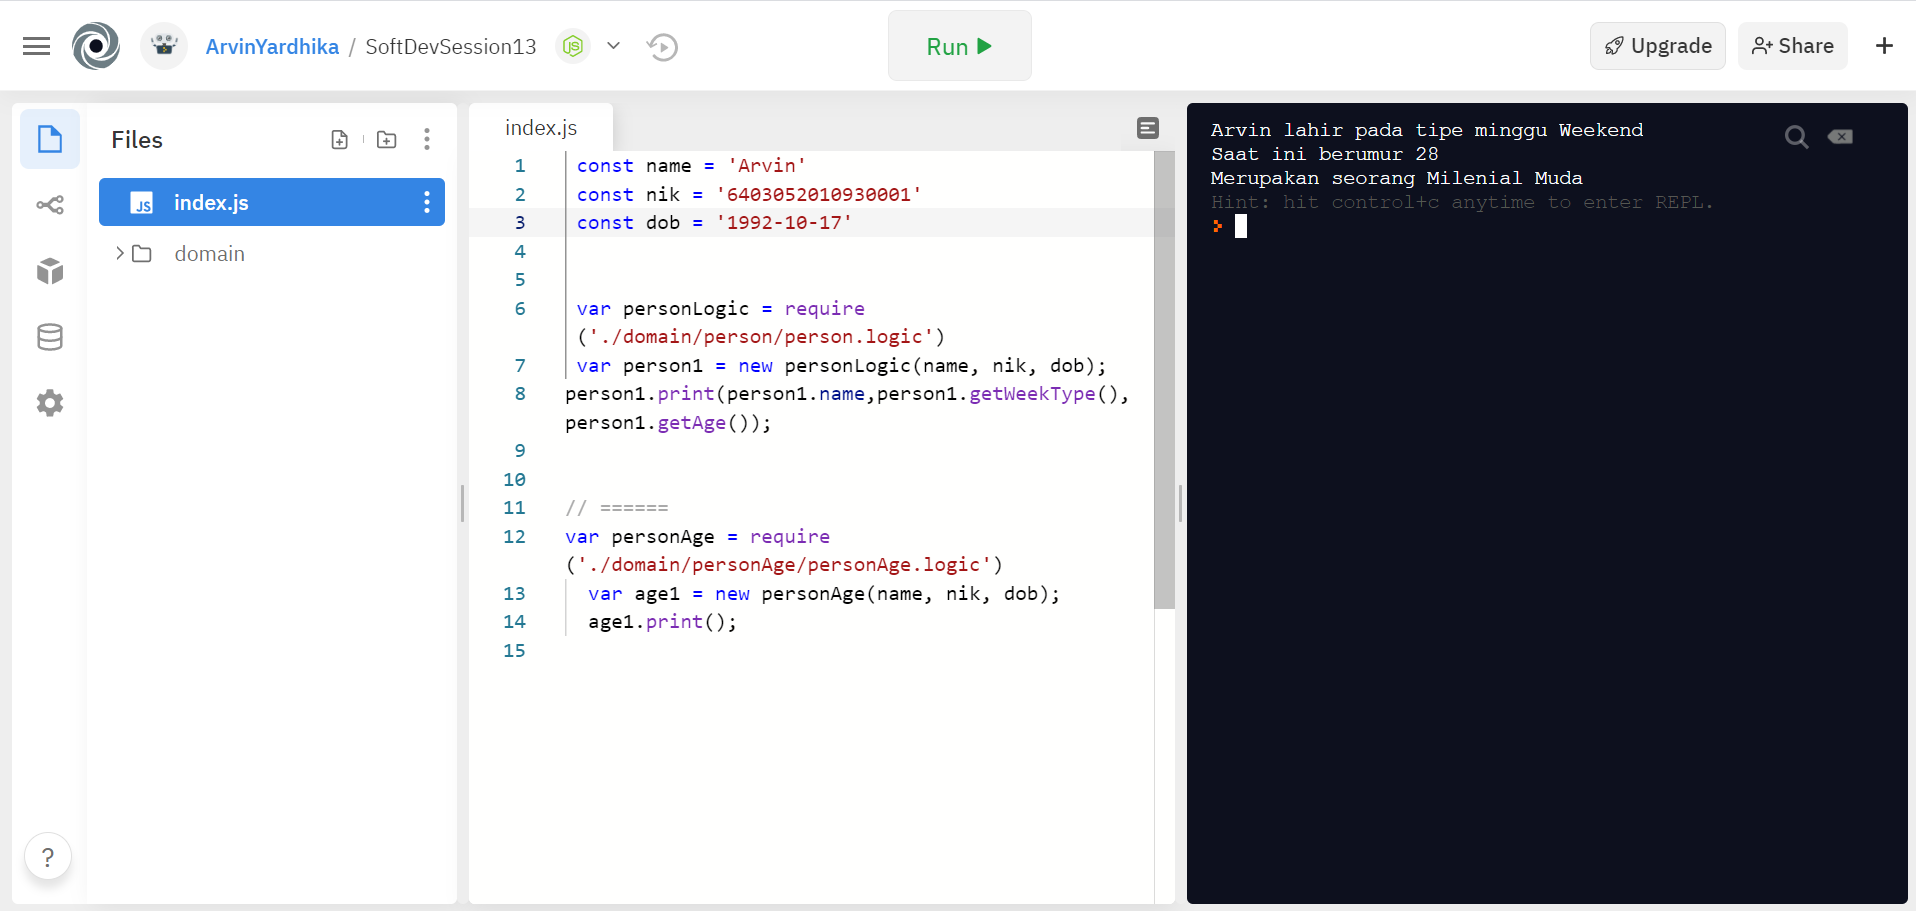
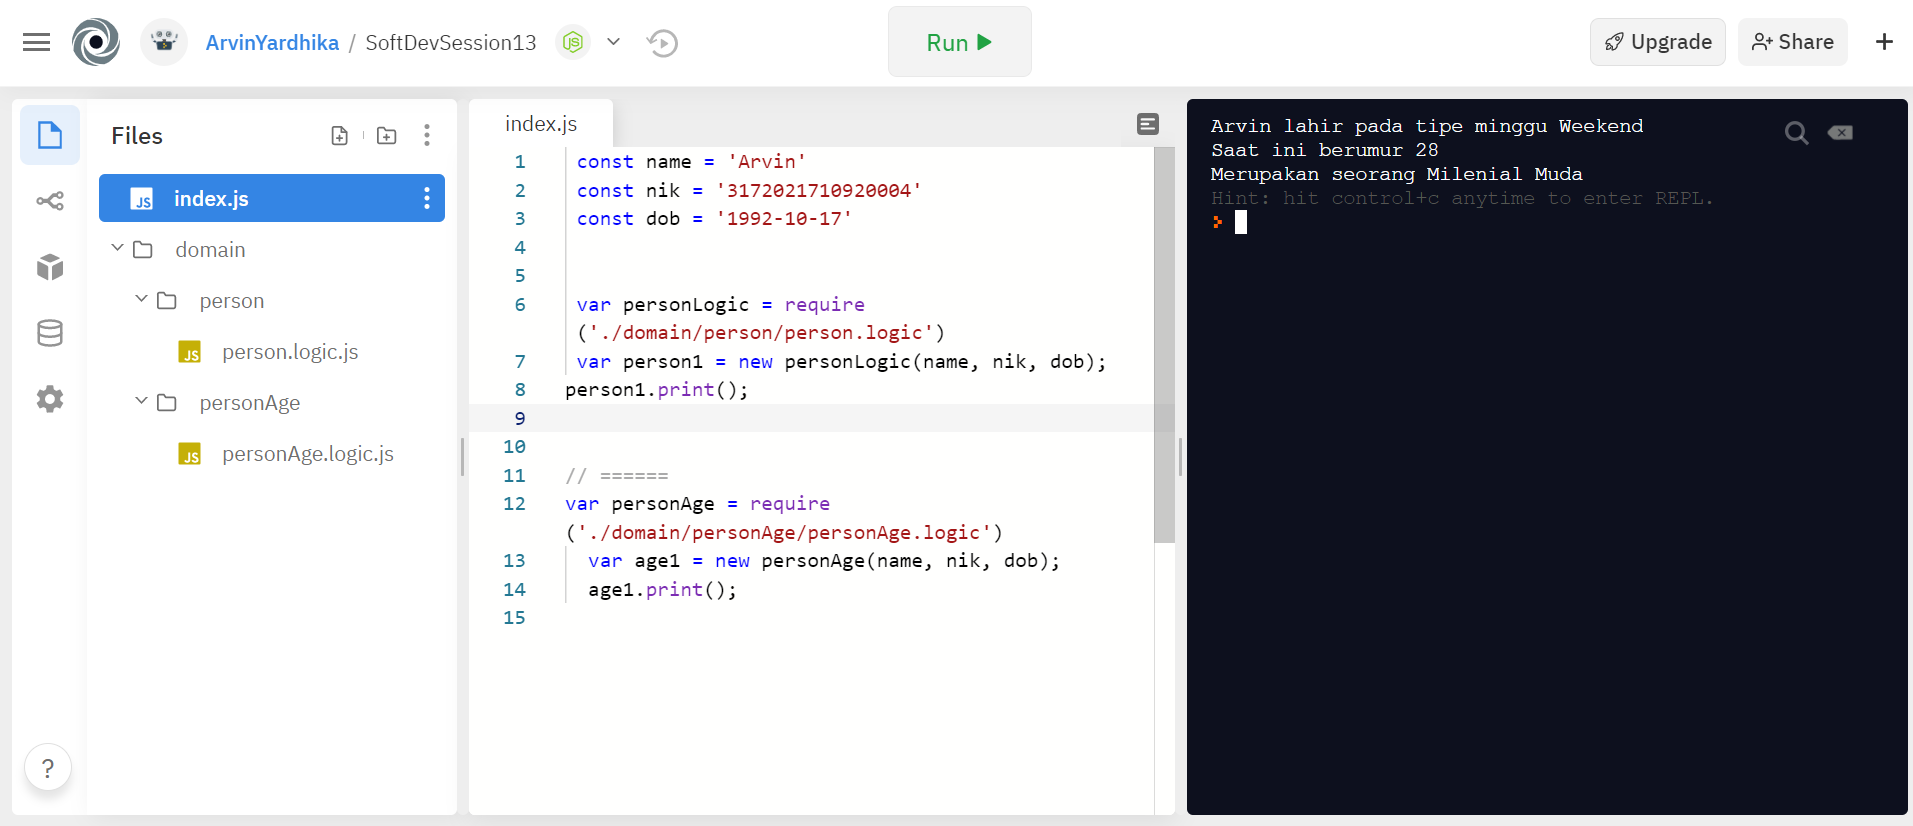
add file soal

diff --git a/soal.js b/soal.js
@@ -1,0 +1,54 @@
+function Person(name, nik, bod) {
+    return {
+          name: name,
+          nik: nik,
+          birthOfDate: bod,
+          getWeekType: () => {
+            var day = new Date(bod).getDay()
+            if (day > 0 && day < 6) {
+              return "Weekday" 
+            } else if(day === 0 || day === 6) {
+              return "Weekend"      
+            } else {
+              return "Birth of date not valid"  
+            }
+          },
+          getAge: () => {
+            var birthOfDate = Date.parse(bod)
+            var now = Date.now()
+            var diff = now - birthOfDate
+            var diffDate = new Date(diff)
+            return Math.abs(diffDate.getUTCFullYear() - 1970)
+          }
+      }
+    }
+  
+    function Age(name, nik, bod) {
+      var person = new Person(name, nik, bod)
+      return {
+        personByAge: () => {
+          if(person.getAge() < 20) {
+            return "Generasi Z"
+          } else if (person.getAge() >= 20 || person.getAge() < 30) {
+            return "Milenial Muda"
+          } else if (person.getAge() >= 30 || person.getAge() < 40) {
+            return "Milenial Tua"
+          } else {
+            return "Baby Boomer"
+          }
+        }
+      }
+    }
+    
+    var person1 = new Person('Tata', '6403052010930001', '1993-10-20');
+    if (person1.getWeekType() === 'Weekday' || person1.getWeekType() === 'Weekend') {
+      console.log(`${person1.name} lahir pada tipe minggu ${person1.getWeekType()}`)
+    } else {
+      console.log(`Tanggal lahir ${person1.name} bermasalah`)  
+    }
+    console.log(`Saat ini berumur ${person1.getAge()}`)
+  
+  // ======
+  
+    var age1 = new Age('Tata', '6403052010930001', '1993-10-20');
+    console.log(`Merupakan seorang ${age1.personByAge()}`)

diff --git a/domain/person/person.logic.js b/domain/person/person.logic.js
@@ -21,13 +21,13 @@ class personLogic {
     var diffDate = new Date(diff)
     return Math.abs(diffDate.getUTCFullYear() - 1970)
   }
-  print(name, weekType, age){
-    if (weekType === 'Weekday' || weekType === 'Weekend') {
-    console.log(`${name} lahir pada tipe minggu ${weekType}`)
+  print(){
+    if (this.getWeekType() === 'Weekday' || this.getWeekType() === 'Weekend') {
+    console.log(`${this.name} lahir pada tipe minggu ${this.getWeekType()}`)
   } else {
-    console.log(`Tanggal lahir ${name} bermasalah`)  
+    console.log(`Tanggal lahir ${this.name} bermasalah`)  
   }
-  console.log(`Saat ini berumur ${age}`)
+  console.log(`Saat ini berumur ${this.getAge()}`)
   }
 }
 

diff --git a/index.js b/index.js
@@ -5,7 +5,7 @@
  
  var personLogic = require('./domain/person/person.logic')
  var person1 = new personLogic(name, nik, dob);
-person1.print(person1.name,person1.getWeekType(), person1.getAge());
+person1.print();
 
 
 // ======
